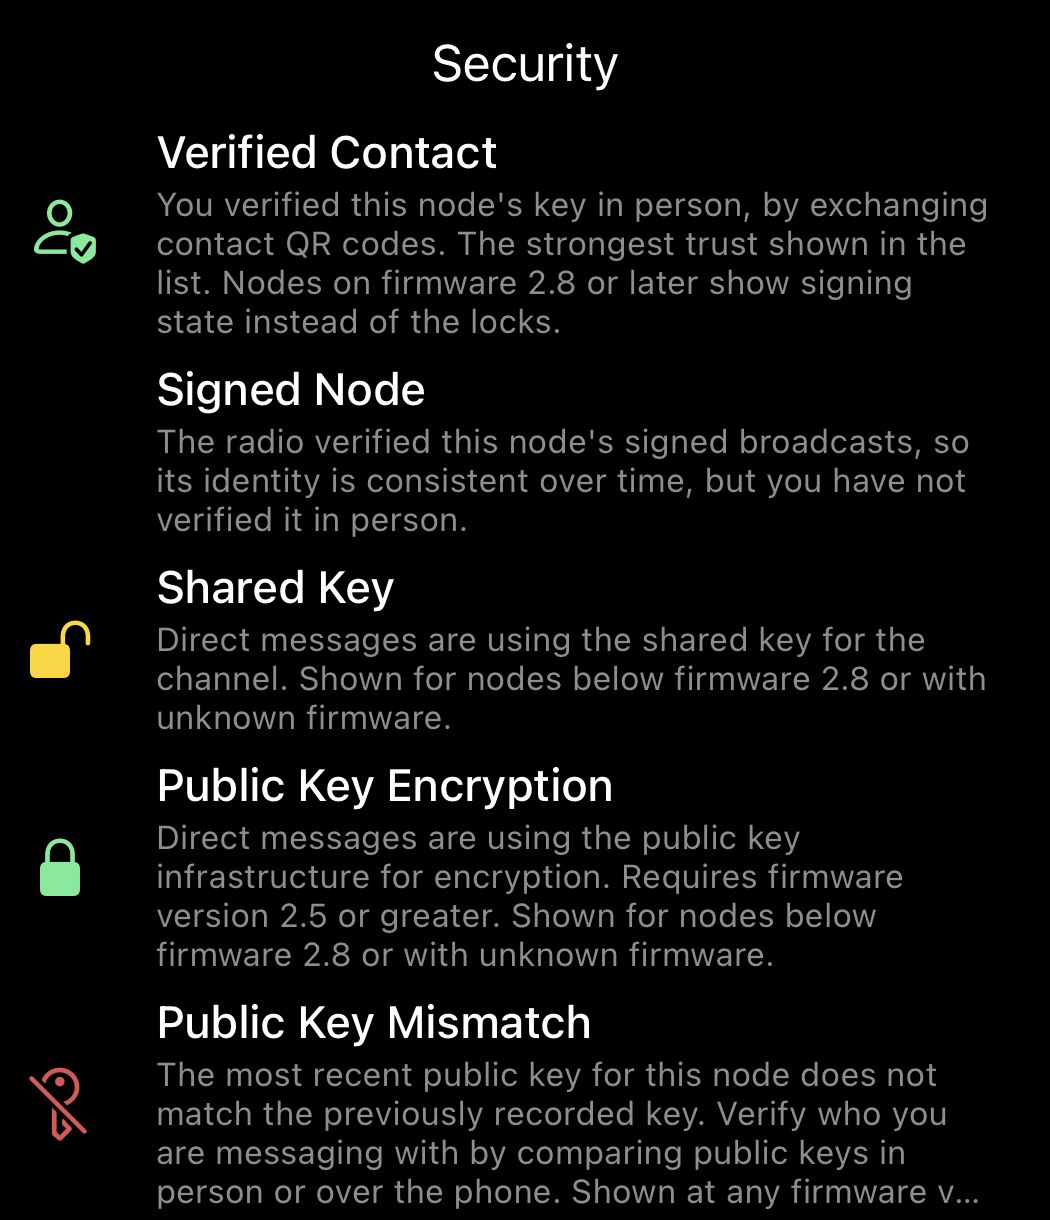
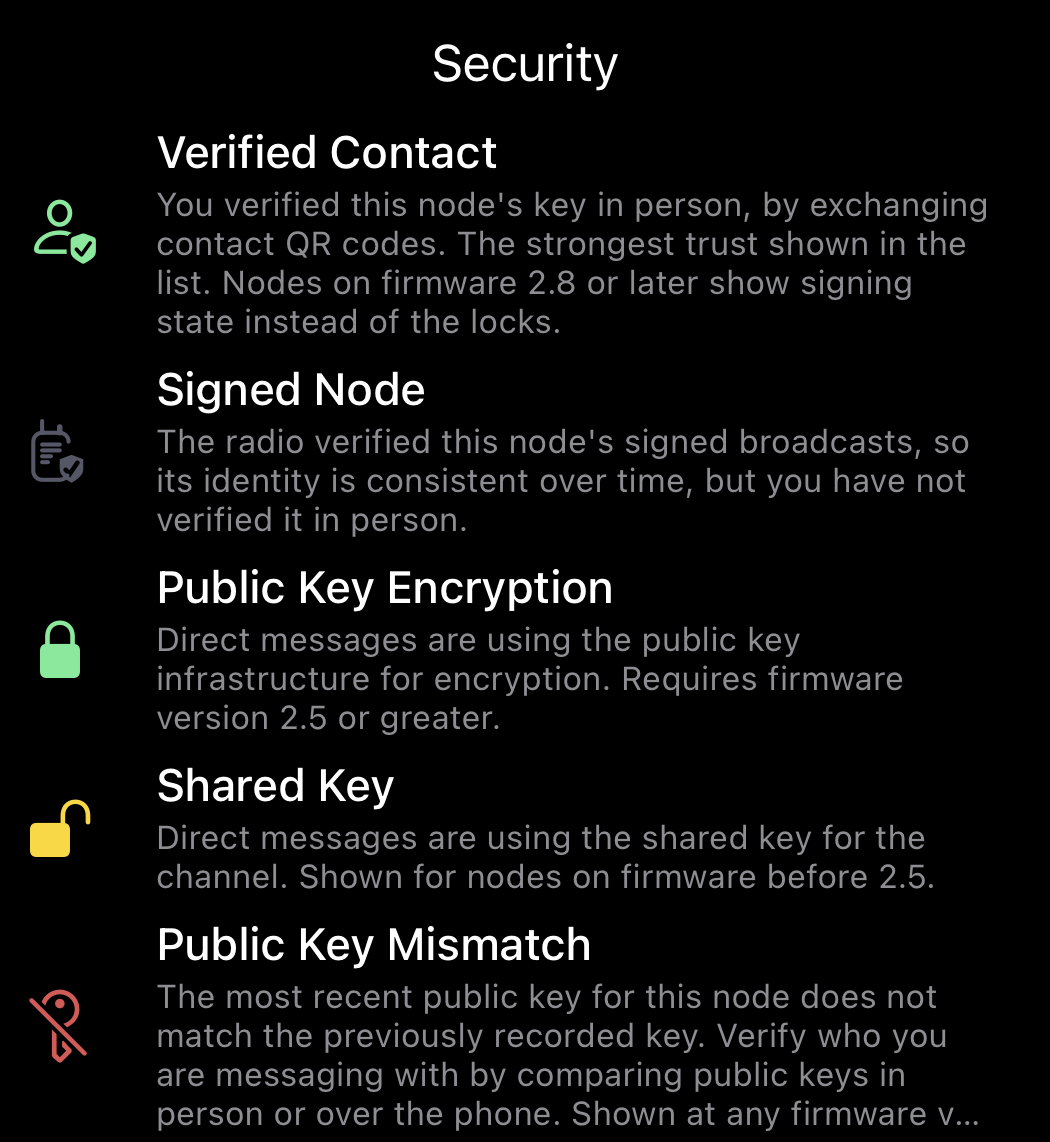
Make the signed-node symbol actually draw, and tidy the legend
The custom symbol I added was built from stroked paths. A symbol
template only fills, so it compiled into the catalog and then drew
nothing — the Signed Node row in the help was blank, and UIImage
could not load it at all.

It is now generated as filled outlines: each stroke offset to its own
closed contour, every filled subpath wound one way and every hole the
other so nonzero fill reads them consistently. The badge is a solid
shield with the check knocked out of it, the way Apple's own
.badge.shield.checkmark symbols are — an outlined shield needs a ring
that collapses where the shield narrows to its point. The radio body
stops short of the badge along the badge's own shape, which is the
gap the artwork got from its knockout.

In the legend, Public Key Encryption moves above Shared Key, Shared
Key says firmware before 2.5, and neither mentions unknown firmware
any more.

diff --git a/Meshtastic/Views/Helpers/Help/LockLegend.swift b/Meshtastic/Views/Helpers/Help/LockLegend.swift
@@ -31,21 +31,21 @@ struct LockLegend: View {
 			)
 			HelpItem(
 				symbol: AnyView(
-					Image(systemName: "lock.open.fill")
-						.font(.title3)
-						.foregroundColor(.yellow)
-				),
-				title: String(localized: "Shared Key"),
-				subtitle: String(localized: "Direct messages are using the shared key for the channel. Shown for nodes below firmware 2.8 or with unknown firmware.")
-			)
-			HelpItem(
-				symbol: AnyView(
 					Image(systemName: "lock.fill")
 						.font(.title3)
 						.foregroundColor(.green)
 				),
 				title: String(localized: "Public Key Encryption"),
-				subtitle: String(localized: "Direct messages are using the public key infrastructure for encryption. Requires firmware version 2.5 or greater. Shown for nodes below firmware 2.8 or with unknown firmware.")
+				subtitle: String(localized: "Direct messages are using the public key infrastructure for encryption. Requires firmware version 2.5 or greater.")
+			)
+			HelpItem(
+				symbol: AnyView(
+					Image(systemName: "lock.open.fill")
+						.font(.title3)
+						.foregroundColor(.yellow)
+				),
+				title: String(localized: "Shared Key"),
+				subtitle: String(localized: "Direct messages are using the shared key for the channel. Shown for nodes on firmware before 2.5.")
 			)
 			HelpItem(
 				symbol: AnyView(
